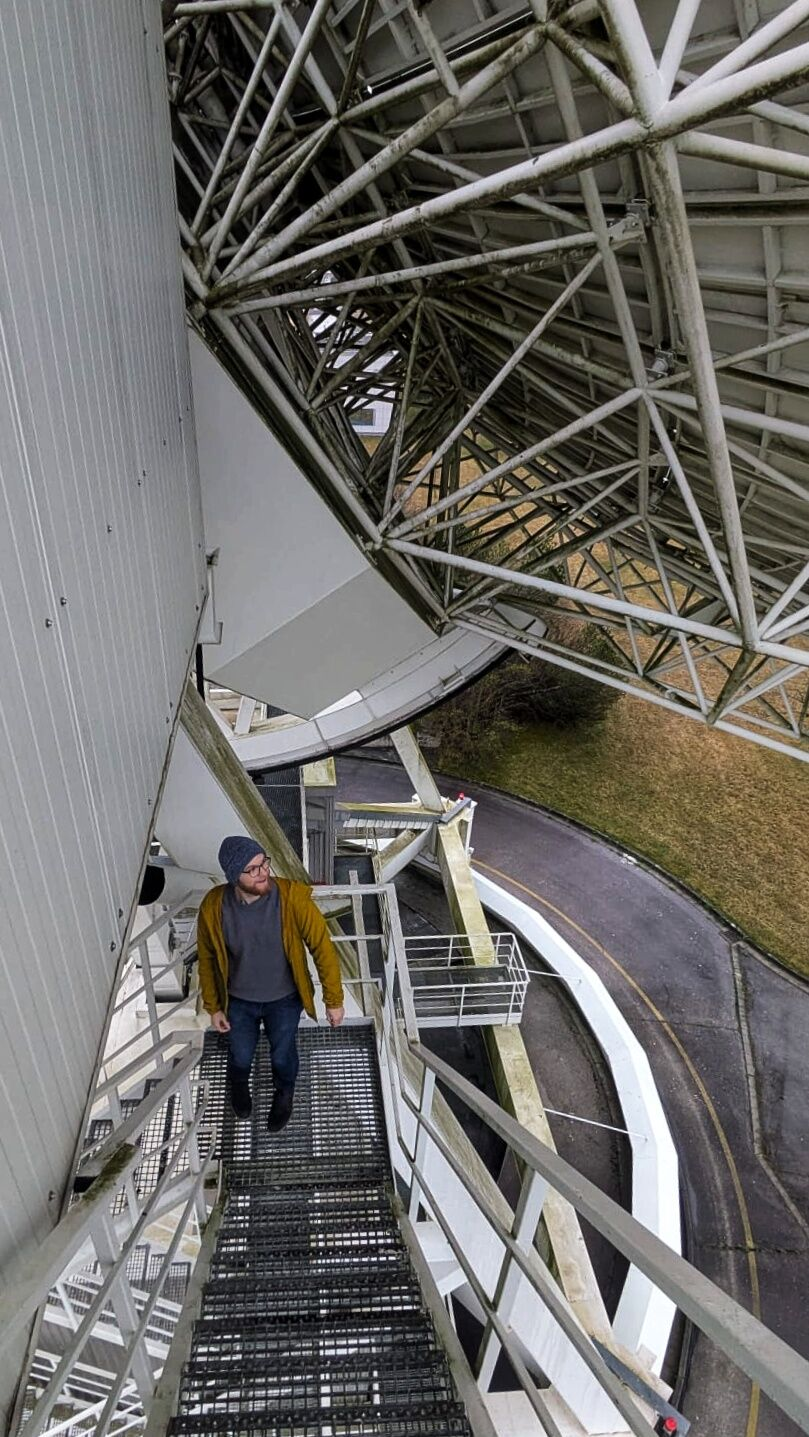
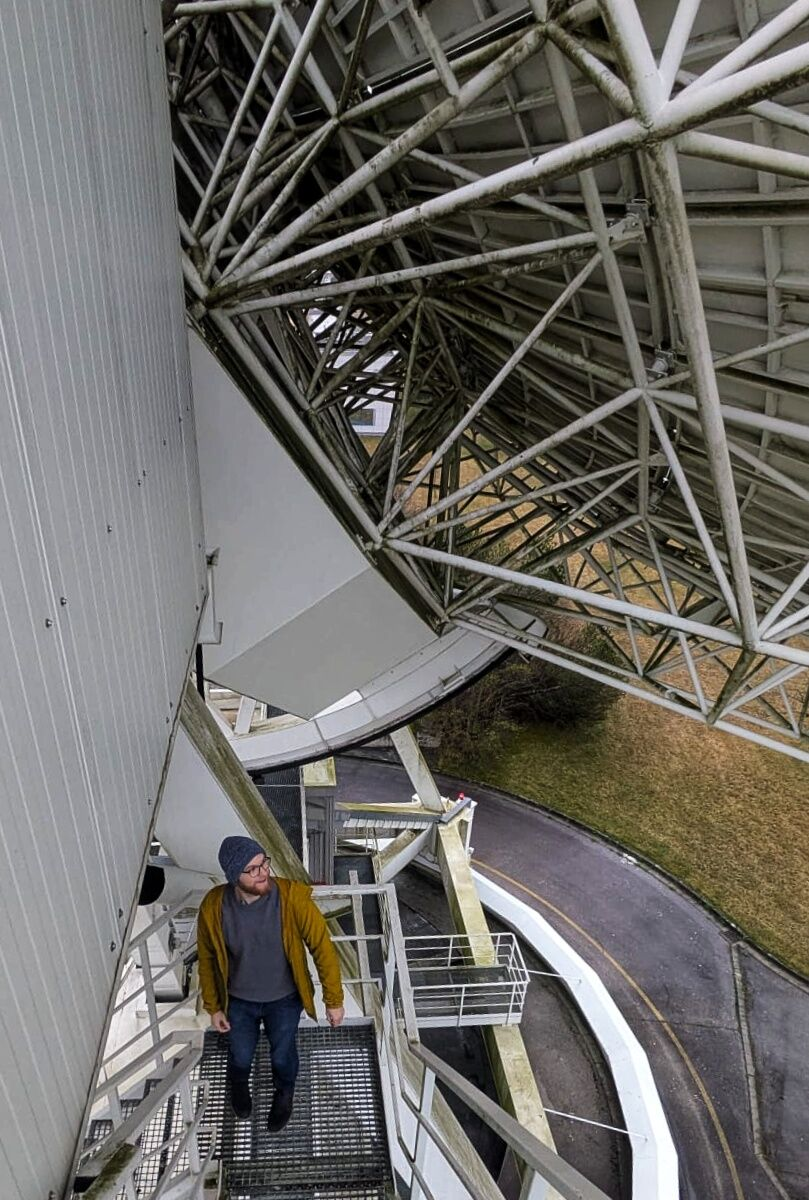
Crop the stairway photo, blur faces in the setup photo, add captions

diff --git a/content/about-me/index.md b/content/about-me/index.md
@@ -2,7 +2,7 @@
 title: About me
 ---
 
-![](figures/antenna-stairs.jpg){alt="Julian on a metal stairway below the reflector of a large antenna dish, looking up." width=420 height=746}
+![The 30 m antenna in Weilheim.](figures/antenna-stairs.jpg){alt="Julian on a metal stairway below the reflector of a large antenna dish, looking up." width=420 height=623}
 
 ## Short bio
 
@@ -24,4 +24,4 @@ My current and first callsign is DD4JS and CW is the mode I enjoy most.
 I'm a member of the DARC at OV C28.
 You can find me on [QRZ.com](https://www.qrz.com/db/DD4JS).
 
-![](figures/measurement-rack.jpg){alt="Rack of RF measurement instruments with a spectrum analyser on top and signal generators below, next to a monitor showing test software. A paper model of an antenna stands on the rack." width=560 height=422}
+![Demo of an in-orbit spacecraft test setup.](figures/measurement-rack.jpg){alt="Rack of RF measurement instruments with a spectrum analyser on top and signal generators below, next to a monitor showing test software. A paper model of an antenna stands on the rack." width=560 height=422}
